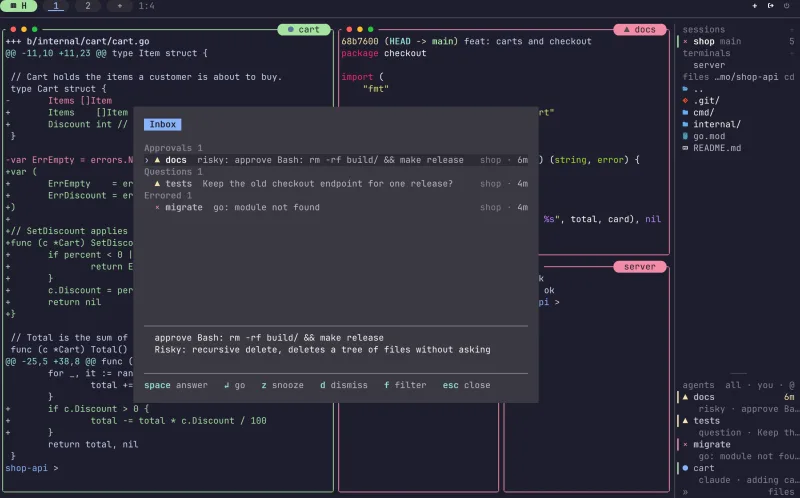
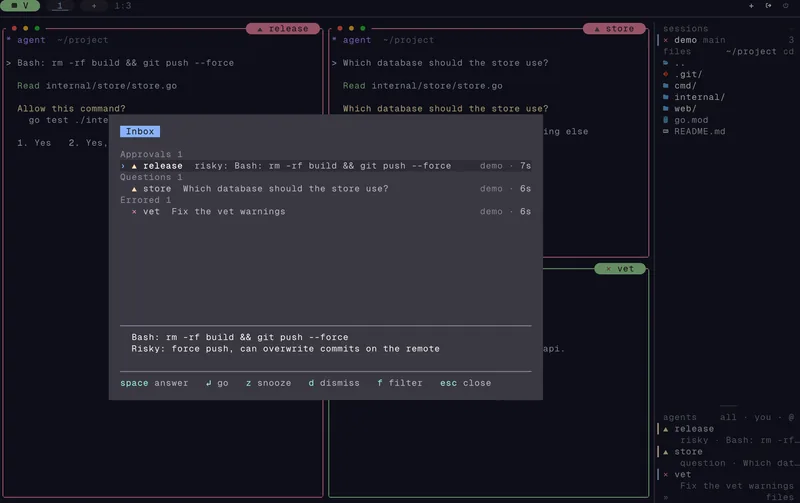
docs(home): make the four landing shots in GeistMono from scenes
The Panes, Inbox, Review and Settings pictures on the landing page are
now scenes in media/scenes/landing-*, made by scripts/docs-media.sh like
the docs pictures. They are drawn in GeistMono Nerd Font Mono and can be
made again when the UI changes.

The Panes shot now holds a Go file, a git diff and two agents, so its alt
text says that. The new captures are 44 rows high, so the frame is 1600
by 1006. agent-demo can now ask a question, for the Inbox shot.

The four shots weigh 350 KB at both widths, down from 472 KB.

Changed region(s): [[0.0, 0.0, 1.0, 0.994]]

diff --git a/components/home/showcase.tsx b/components/home/showcase.tsx
@@ -6,8 +6,8 @@ import { cn } from "@/lib/cn";
 
 /**
  * The landing page's picture of tuios: four whole-screen captures taken by
- * tuios itself (the screenshot_screen action, drawn by internal/shot) of one
- * demo session. A tab list switches between them.
+ * tuios itself (the screenshot_screen action, drawn by internal/shot). The
+ * scenes are media/scenes/landing-*, made by scripts/docs-media.sh. A tab list switches between them.
  */
 
 const SHOTS = [
@@ -15,7 +15,7 @@ const SHOTS = [
     id: "panes",
     label: "Panes",
     src: "/shots/overview.webp",
-    alt: "tuios with four tiled panes: a git diff, a Go file, test output and a build. The sidebar lists the session, its files and four agents with their states.",
+    alt: "tuios with four tiled panes: a Go file, a git diff and two agents. The sidebar lists the session, its files and the agents with their states.",
     text: "Tiled panes, a sidebar of sessions and files, and every agent's state at a glance: working, waiting on you, done or failed.",
     href: "/docs/layout-modes",
     more: "Layouts",
@@ -117,7 +117,7 @@ export function Showcase() {
             href={shot.src}
             target="_blank"
             rel="noopener"
-            className="relative block aspect-[1600/996] focus-visible:outline-none focus-visible:ring-2 focus-visible:ring-fd-primary focus-visible:ring-inset"
+            className="relative block aspect-[1600/1006] focus-visible:outline-none focus-visible:ring-2 focus-visible:ring-fd-primary focus-visible:ring-inset"
           >
             {SHOTS.map((s, i) =>
               // Only the shots someone has opened are in the page, so the
@@ -133,7 +133,7 @@ export function Showcase() {
                   alt={i === index ? s.alt : ""}
                   aria-hidden={i === index ? undefined : true}
                   width={1600}
-                  height={996}
+                  height={1006}
                   decoding="async"
                   fetchPriority={i === 0 ? "high" : "auto"}
                   className={cn(
